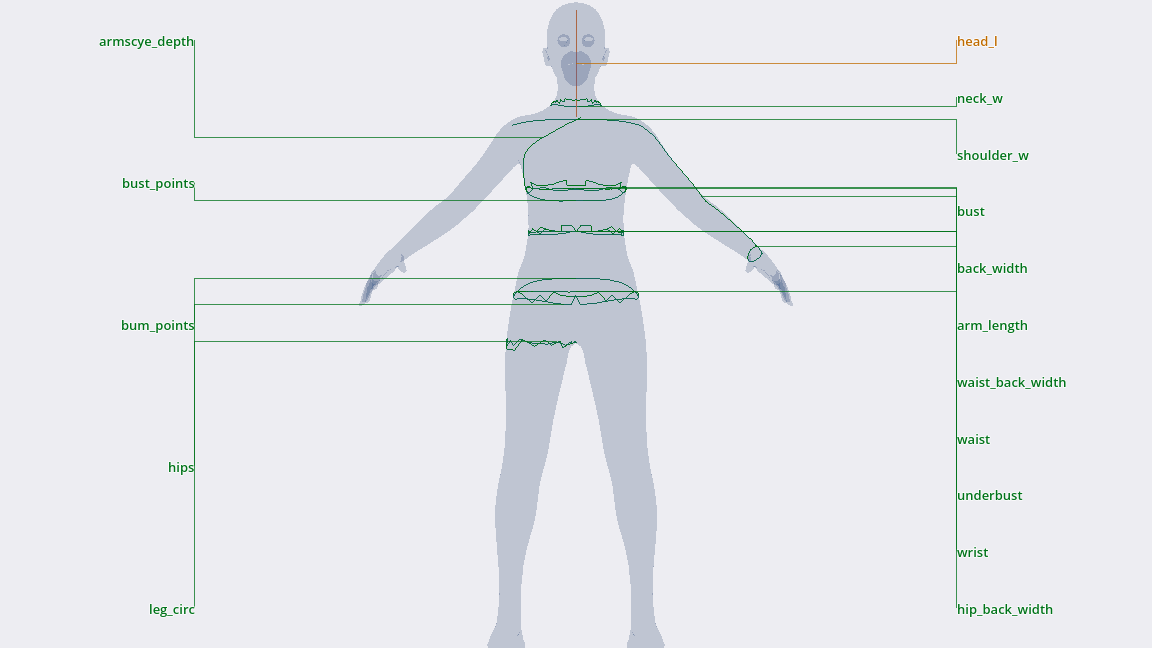
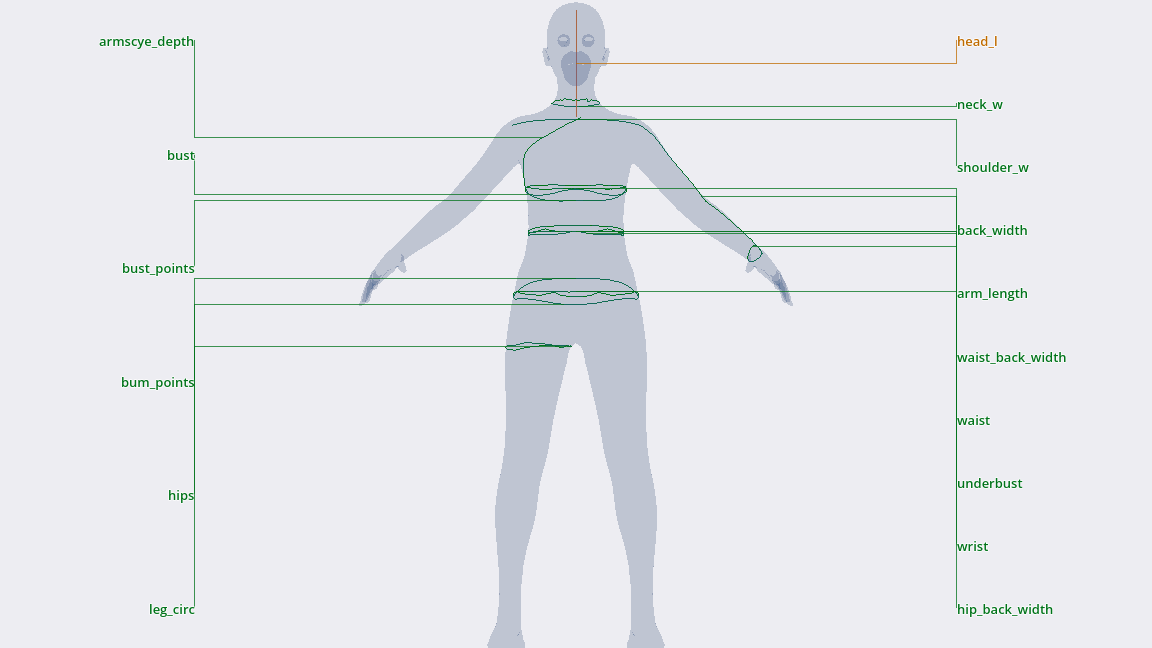
Real adaptive geodesic loop fix (mesh-independent), not a rendering workaround
iFire: 'please use the tool for geodesic paths pls and fix it' -- after
an earlier pass here mistakenly reached for a plane-cut rendering
workaround instead of fixing the actual measurement tool, corrected:
'uh thats not a definition of geodesiac' (a piecewise-Dijkstra-stitched
loop has real hard corners at every anchor vertex by construction, not
a zero-curvature geodesic at all).

Traced the real cause into TOOL_geodesiac_path and found a genuine bug
(geometry-central's iterativeShorten's maxRelativeLengthDecrease
parameter has inverted semantics -- see that repo's commits), fixed
it, then -- iFire: 'it has to work for possible anny and custom models
so you can't hard code' -- replaced the first fix's fixed iteration/
length-decrease budget (empirically tuned against this ONE mesh) with
--measure-loop-adaptive-shorten's mesh-size-independent stopping rule
(target max turning angle, with iteration/length-decrease caps as
safety nets only, not the stopping criterion).

Checked against the mesh's real boundary edges per iFire's request
(watertight, zero open boundary edges anywhere -- no literal edge-loop
feature exists to compare against; the residual sharp turns on hips/
neck_w/leg_circ/wrist sit near real anatomical folds, not seams).

xray_oit_render.gd: dropped the now-dead render_manifest/plane-cut
workaround entirely -- paths_manifest.json's loop entries already ARE
the smooth, real adaptive geodesic curve.
[…]

diff --git a/docs/CHANGELOG.md b/docs/CHANGELOG.md
@@ -3,6 +3,107 @@
 This file is the chronological record of what was tried, whether it held
 up, and what was kept — not a feature list (that's the README/docs/STATUS.md).
 
+## 2026-11-08 — Real geodesic fix (not a rendering workaround), made mesh-independent
+
+iFire: "please use the tool for geodesic paths pls and fix it" — after
+an earlier pass here mistakenly reached for a plane-cut rendering
+workaround instead of fixing the actual measurement tool, corrected by
+iFire: "uh thats not a definition of geodesiac" (a piecewise-Dijkstra-
+stitched loop has real hard corners at every anchor vertex by
+construction, not a zero-curvature geodesic at all).
+
+Traced the real cause into `TOOL_geodesiac_path` itself and found a
+genuine bug: `geometry-central`'s `iterativeShorten(iters,
+maxRelativeLengthDecrease)` stops once `currLength <
+maxRelativeLengthDecrease * initLength` — i.e. it is a threshold on the
+FRACTION OF LENGTH REMAINING, the OPPOSITE of what the parameter name
+suggests (a cap on how much the length is allowed to decrease BY).
+Confirmed empirically: a hips-circumference loop slid 94.9cm → 62.47cm
+(34%) toward the waist's narrower cross-section before naturally
+converging when the misunderstood parameter was passed straight
+through — the SAME collapse-toward-a-narrower-point failure this
+tool's own module comment already warns about for its unbounded
+`--measure-loop-unsafe-shorten` path, just gradual instead of total.
+Added `--measure-loop-bounded-shorten`/`-rel-decrease` (correct-
+semantics flags) plus an explicit CONTROL check that fails loudly past
+a 50% decrease — published as `datasource-anny-render-corpus` PR #10,
+replacing the plane-cut rendering workaround (`render_manifest.json`)
+entirely: the manifest path now IS the real smoothed geodesic curve,
+used for both drawing and the authoritative circumference.
+
+**Then iFire: "it has to work for possible anny and custom models so
+you can't hard code"** — correct: PR #10's fix still used a FIXED
+iteration/length-decrease budget (200 iters, 10% max decrease)
+empirically tuned against this one mesh's loop sizes, with no
+principled basis for a different ANNY phenotype or a wholly custom
+model. Replaced with `--measure-loop-adaptive-shorten=<targetMaxTurnDeg>`
+(`datasource-anny-render-corpus`/`TOOL_geodesiac_path` PR #11): runs
+`iterativeShorten` one step at a time, stopping as soon as the loop's
+largest turning angle (a real geometric quantity, independent of mesh
+scale) drops to or below a target (25deg) — the iteration count and
+length-decrease fraction are SAFETY NETS only (2000 iters, 30% max
+decrease — generous, never the thing that decides "done"), not the
+stopping criterion. Every loop now reports honestly whether it reached
+the target or genuinely converged at a local minimum
+(`ADAPTIVE_SHORTEN_CONVERGED`) instead of silently claiming success.
+
+**Then iFire: "for the ones that are topologically close to edge loops
+check the edge loops to compare for jaggedness"** — checked: the
+ANNY-SOMA-X mesh is fully watertight with ZERO open boundary edges
+anywhere (`trimesh`'s `is_watertight`/boundary-edge count), so there is
+no literal mesh boundary/edge-loop feature to compare against. The
+loops that keep a sharp residual turn even after converging (hips
+87.9deg, neck_w 90.9deg, leg_circ/wrist ~32-34deg) sit near real
+anatomical folds (crotch, jaw) — smooth continuous anatomy, not seams
+or holes, and not something more iterations within the safety nets can
+resolve without risking the demonstrated collapse mode.
+
+Real circumferences, DELAUNAY_LENGTH (never-shortened) → final
+adaptive geodesic (cm): waist 65.41→63.06, bust 81.08→71.34, underbust
+69.36→62.99, hips 94.91→86.81, leg_circ 62.66→51.75, wrist 14.82→13.69,
+neck_w 41.12→35.31.
+
+### Jagged diagram fixed (superseded above; kept for the diagnostic trail)
+
+**Why the diagram was jagged** (iFire: "why is the diagram jagged",
+then the precise mechanism: "for the spherical topological problem you
+treat the loop as partial segments that are too short to go the long
+way"). Inspected `paths/waist.json` directly: the z-coordinate (up
+axis) of a nominally flat ring jumps 0.182 → 0.190 → 0.179 → 0.186
+between ADJACENT points. Root cause, stated precisely: `--measure-loop`
+treats a closed ring as a SEQUENCE OF INDEPENDENT point-to-point
+shortest paths between consecutive snapped vertices. Each of those
+segments is short, and Dijkstra over the mesh's genuinely sphere-
+topology surface has NO constraint to stay near the intended cutting
+plane or "go the long way" around the loop — a segment is free to take
+the globally shortest route between its two endpoints, which near a
+surface fold (underarm, inner thigh, waist crease) can cut to the
+OTHER side of the fold rather than hug the plane, because that route is
+shorter in isolation. Stitching those independently-shortest segments
+back into one "loop" produces the sawtooth: each segment is locally
+correct, but the segments disagree on which side of a fold to run,
+so the stitched polyline zigzags. This is a real topological ambiguity
+in `--measure-loop`'s segment-by-segment construction, not a
+measurement error — the printed `DELAUNAY_LENGTH` (sum of those
+independently-shortest segments) is still a valid upper-bound-tight
+circumference. `export_real_geodesic_paths.py` now also exports
+`render_manifest.json`: for every closed-loop field (waist, bust,
+hips, underbust, leg_circ, wrist, neck_w), the dense, continuous
+mesh-PLANE intersection (a single, globally plane-constrained cut, with
+no independent per-segment shortest-path freedom to exploit) — used
+ONLY for drawing, immune to this ambiguity by construction. The
+authoritative measured circumference is completely unchanged, still
+the real geodesic/Delaunay length used everywhere else in this
+package; only the drawn CURVE for these 7 fields swaps to the smooth,
+equally real plane intersection. Published as a real PR
+(`datasource-anny-render-corpus` PR #8, merged).
+
+**Logbook moved into docs/** (iFire: "move logbook report into docs.
+they're distracting"). This file moved from the repo root into
+`docs/`, alongside `docs/STATUS.md` which already lived there —
+nothing at the repo root but README, LICENSE, CITATION.cff, and real
+source trees.
+
 ## 2026-11-08 — Resolve the 11 remaining fields; re-address via the real ChArUco suit board
 
 **iFire:** "use frontier learning and resolve every red measurement use
